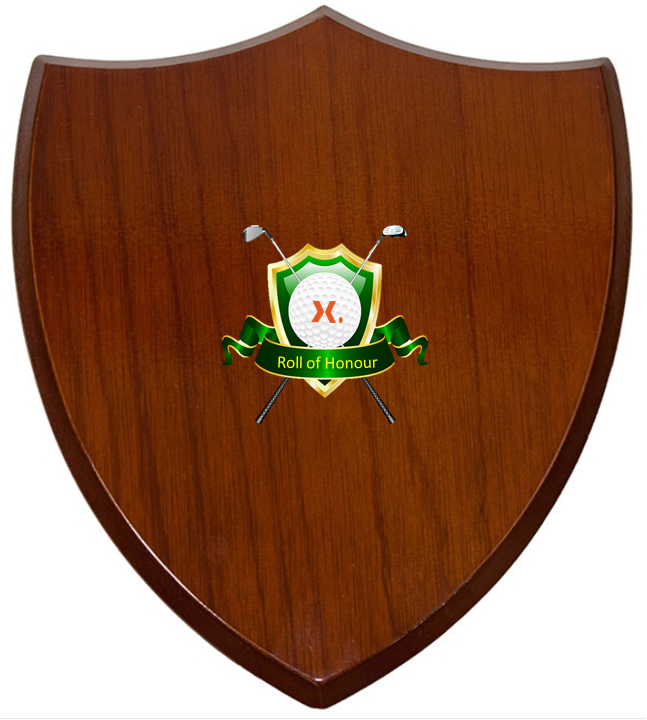
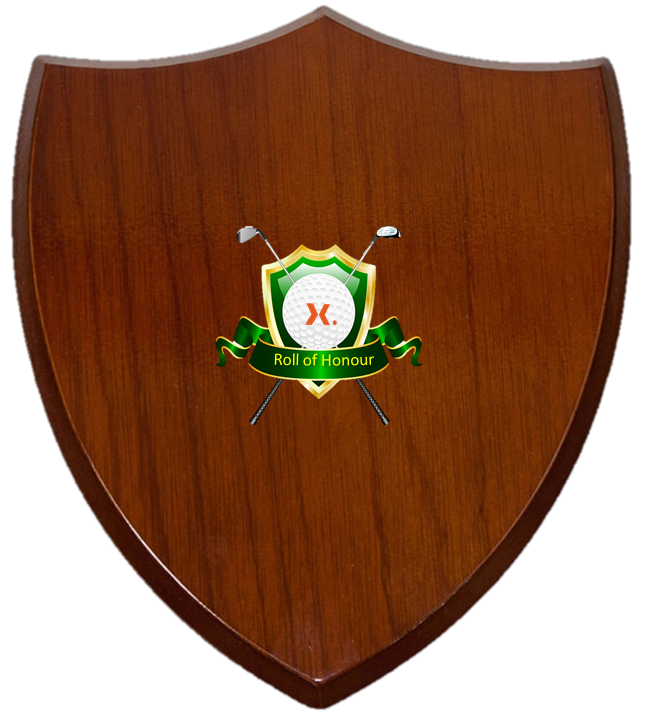
roll of honour background

diff --git a/public/index.html b/public/index.html
@@ -415,14 +415,14 @@
                         
                         
                         <!-- Hall of Fame panel definition begins -->
-                        <div id="halloffamecontent" style="display:none">
+                        <div id="halloffamecontent" style="display:none;">
                             <div class="well  text-center" >
                                 <img class = "img-rounded" src="img/playeroftheyear.png" style="display:inline-block"  alt="" align="left" > 
                                 <h1 style="display:inline-block">Hall of Fame</h1>
                                 <img class = "img-rounded" style="display:inline-block" src="img/playeroftheyear.png" alt=""  align="right" >
                             </div>
                             
-                            <div class="text-center" align="center" style="position:relative">
+                            <div class="text-center" align="center" style="position:relative;">
                                 <img class = "img-rounded" src="img/halloffame.png" style=""  alt="" align="center" >
                                 
                                 <div  style="position:absolute; top: 175px; left: 275px; z-index: 1;">
@@ -442,7 +442,7 @@
                                 <img class = "img-rounded" style="display:inline-block" src="img/playeroftheyear.png" alt=""  align="right" >
                             </div>
             
-                            <div class="text-center" align="center" style="position:relative">
+                            <div class="text-center" align="center" style="position:relative;background-image:url(img/background1.png)">
                                 <img class = "img-rounded" src="img/rollofhonour.png" style=""  alt="" align="center" > 
                                 
 
